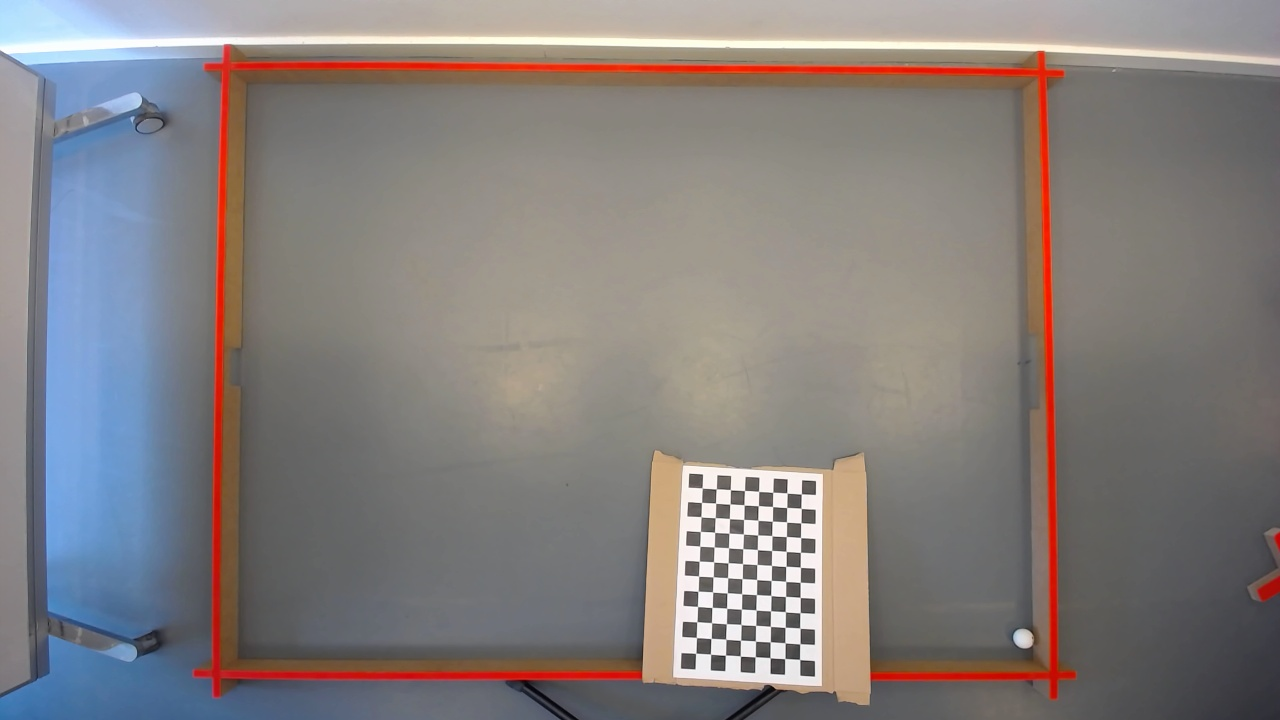
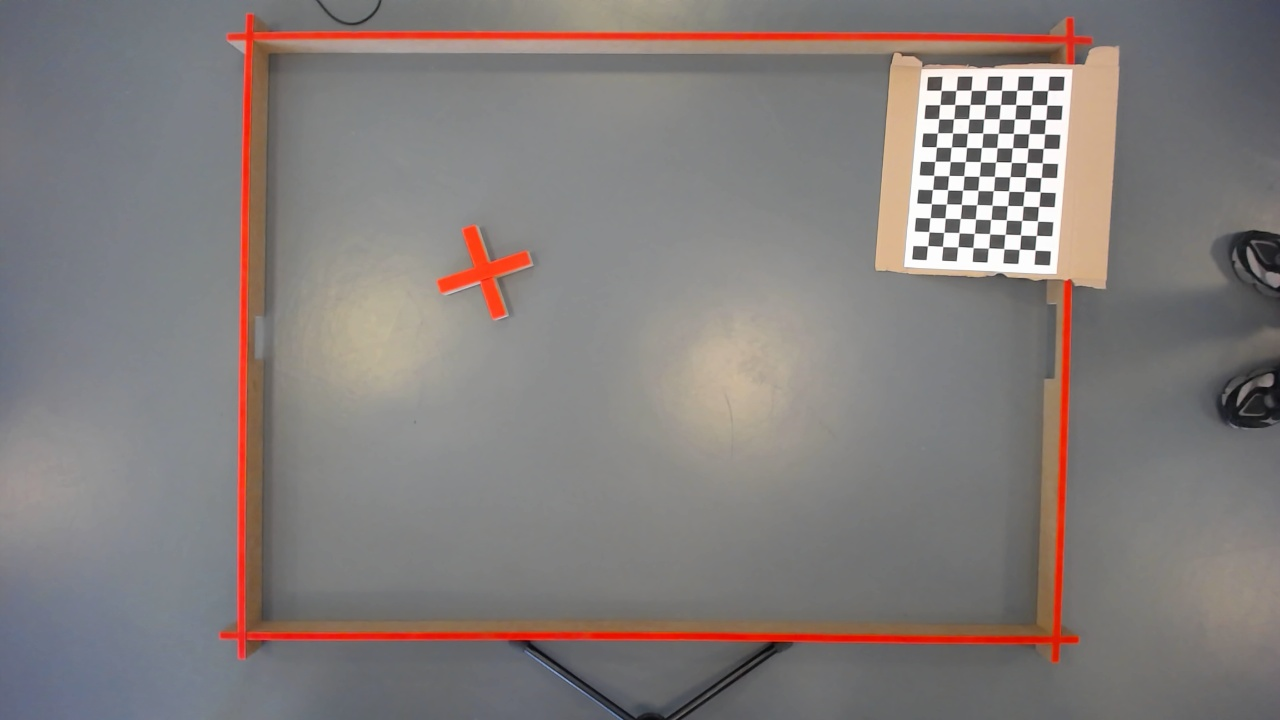
New calibration photos update on green circle radius to be a bit bigger in detectRobot.py. ServerInitializer.py change is for the robot to collect balls first instead of deliver

diff --git a/ServerInitializer.py b/ServerInitializer.py
@@ -14,7 +14,7 @@ time.sleep(2)
 smallGoal, bigGoal, obstacle, corners = detectField.detect_field()
 balls = detectBalls.detect_balls()
 state = State.State(small_goal=smallGoal, large_goal=bigGoal, obstacle=obstacle, corners=corners, balls=balls,
-                    mode=robot_modes.DELIVER,
+                    mode=robot_modes.COLLECT,
                     need_new_detect_balls=False,
                     goal_ball=None, ball_amount_guess=0, non_delivered_balls=len(balls),
                     robot_delivery_location_small=(smallGoal[0] + 200, smallGoal[1]),

diff --git a/Pathfinder.py b/Pathfinder.py
@@ -233,7 +233,7 @@ def collect_balls(state):
         return Moves.MoveClass(MoveTypes.TURN, 500, angle_to_turn)
     else:
         if distance_to_goal_ball > 300:
-            return Moves.MoveClass(MoveTypes.FORWARD, 500, distance_to_goal_ball)
+            return Moves.MoveClass(MoveTypes.FORWARD, 500, distance_to_goal_ball / 2)
         else:
             state.goal_ball = None
             state.need_new_detect_balls = True

diff --git a/imageReader.py b/imageReader.py
@@ -1,8 +1,7 @@
 import cv2 as cv
-import Calibration.cameraCalibrationv2
 # Simple file for capturing and saving an image in the same fashion as the image will be captured in the final display.
 print("Starting")
-videoCapture = cv.VideoCapture(1, cv.CAP_DSHOW)
+videoCapture = cv.VideoCapture(0, cv.CAP_DSHOW)
 videoCapture.set(cv.CAP_PROP_FRAME_WIDTH, 1280)
 videoCapture.set(cv.CAP_PROP_FRAME_HEIGHT, 720)
 list1 = [0]

diff --git a/Calibration/take_photo.py b/Calibration/take_photo.py
@@ -1,7 +1,7 @@
 import cv2 as cv
 # Simple file for capturing and saving an image in the same fashion as the image will be captured in the final display.
 print("Starting")
-videoCapture = cv.VideoCapture(1, cv.CAP_DSHOW)
+videoCapture = cv.VideoCapture(0, cv.CAP_DSHOW)
 videoCapture.set(cv.CAP_PROP_FRAME_WIDTH, 1280)
 videoCapture.set(cv.CAP_PROP_FRAME_HEIGHT, 720)
 

diff --git a/detectRobot.py b/detectRobot.py
@@ -52,7 +52,7 @@ def detect_robot():
             param1=25,
             param2=20,
             minRadius=13,
-            maxRadius=16
+            maxRadius=18
         )
 
         circle = 0
